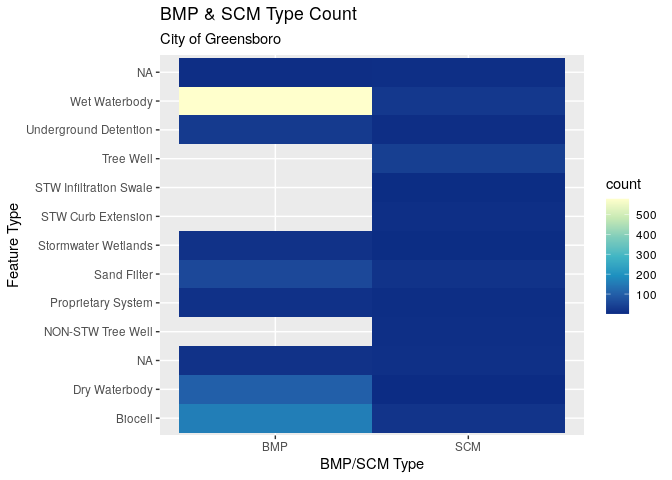
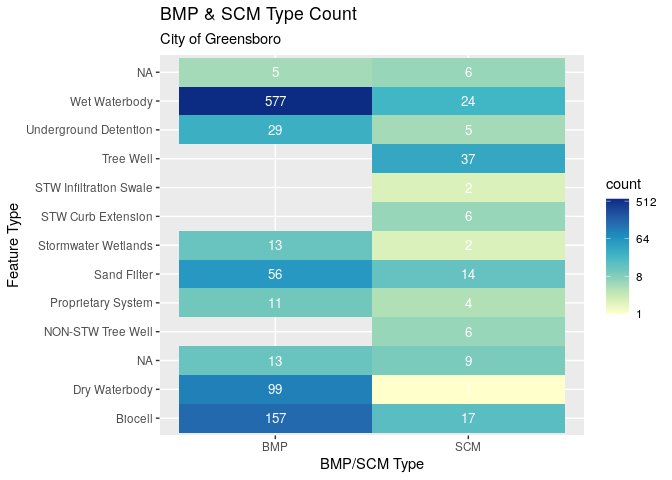
updated markdown report

diff --git a/model/features/BMPs_HUC12.md b/model/features/BMPs_HUC12.md
@@ -63,13 +63,16 @@ GROUP BY featuretyp, bmptype")
 
 ggplot(greensboro_bmp_area_df, aes(y=bmptype, x=featuretyp, fill= area)) + 
   geom_tile() +
-  scale_fill_distiller(palette = "YlGnBu") +
+  scale_fill_distiller(palette = "YlGnBu", trans='log2', direction=1) +
   labs(
        title = "BMP & SCM Type Area (km^2)",
        subtitle = "City of Greensboro",
        x = "BMP/SCM Type",
-       y = "Feature Type")
+       y = "Feature Type") +
+  geom_text(aes(label=sprintf("%0.4f", area)),color="white", face="bold", size=rel(3.5)) 
 ```
+
+    ## Warning: Ignoring unknown parameters: face
 
 ![](BMPs_HUC12_files/figure-gfm/unnamed-chunk-1-1.png)<!-- -->
 
@@ -83,13 +86,16 @@ GROUP BY featuretyp, bmptype")
 
 ggplot(greensboro_bmp_count_df, aes(y=bmptype, x=featuretyp, fill= count)) + 
   geom_tile() +
-  scale_fill_distiller(palette = "YlGnBu") +
+  scale_fill_distiller(palette = "YlGnBu", trans='log2', direction=1) +
   labs(color="Buiding Inclusion",
        title = "BMP & SCM Type Count",
        subtitle = "City of Greensboro",
        x = "BMP/SCM Type",
-       y = "Feature Type")
+       y = "Feature Type") +
+  geom_text(aes(label= count),color="white", face="bold", size=rel(3.5))
 ```
+
+    ## Warning: Ignoring unknown parameters: face
 
 ![](BMPs_HUC12_files/figure-gfm/unnamed-chunk-2-1.png)<!-- -->
 
@@ -109,8 +115,11 @@ greensboro_bmp_area_gdf %>%
 ggplot() +
     facet_grid(.~featuretyp) +
     geom_sf(aes(fill = area)) +
-    scale_fill_viridis_c(option = "plasma")
+    scale_fill_viridis_c(option = "YlGnBu",trans='log2')
 ```
+
+    ## Warning in viridisLite::viridis(n, alpha, begin, end, direction, option): Option
+    ## 'YlGnBu' does not exist. Defaulting to 'viridis'.
 
 ![](BMPs_HUC12_files/figure-gfm/unnamed-chunk-4-1.png)<!-- -->
 
@@ -120,7 +129,7 @@ greensboro_bmp_area_gdf %>%
 ggplot() +
     facet_grid(featuretyp~bmptype) +
     geom_sf(aes(fill = area)) +
-    scale_fill_viridis_c()
+    scale_fill_viridis_c(trans='log2')
 ```
 
 ![](BMPs_HUC12_files/figure-gfm/unnamed-chunk-5-1.png)<!-- -->
@@ -131,13 +140,50 @@ class(greensboro_bmp_area_gdf)
 
     ## [1] "sf"         "data.frame"
 
+## BMP Inlets
+
+``` r
+query = paste('SELECT 
+    inlet.assetid as inlet_assetid,
+    bmp.objectid,
+    bmp.installdat,
+    bmp.bmptype,
+    bmp.featuretyp,
+    bmp.outletdiam,
+    inlet.geom
+FROM sw_inlets_greensboro as inlet, sw_waterbodies_bmp_scm_greensboro as bmp
+WHERE ST_Intersects(inlet.geom, bmp.geom)')
+
+bmp_inlets_gdf <- st_read(con,query = query)
+
+query = paste('SELECT 
+    bmp.*
+FROM sw_inlets_greensboro as inlet, sw_waterbodies_bmp_scm_greensboro as bmp
+WHERE ST_Intersects(inlet.geom, bmp.geom)')
+
+bmps_gdf <- st_read(con,query = query)
+```
+
+``` r
+bmp_inlets_gdf %>%
+ggplot() +
+    geom_sf() +
+    geom_sf(data=bmps_gdf, aes(fill=bmptype))
+```
+
+![](BMPs_HUC12_files/figure-gfm/unnamed-chunk-8-1.png)<!-- -->
+
+``` r
+    #scale_fill_viridis_c(option = "plasma")
+```
+
 ## Culverts
 
 Calculate the total length of
 culverts
 
 ``` r
-huc12_culverts_df <- get_postgis_query(con, "SELECT sa.huc_12,sa.hu_12_name,sa.hu_10_name, 
+huc12_culverts_df <- st_read(con, query=paste("SELECT sa.huc_12,sa.hu_12_name,sa.hu_10_name, 
     (
         sum(COALESCE(ST_Length(gc.geom),0) + 
             COALESCE(ST_Length(cc.geom),0) +
@@ -150,11 +196,74 @@ LEFT JOIN sw_culverts_greensboro as gc ON ST_CONTAINS(sa.geom, gc.geom)
 LEFT JOIN sw_culverts_cary as cc ON ST_CONTAINS(sa.geom, cc.geom)
 LEFT JOIN sw_culverts_raleigh as rc ON ST_CONTAINS(sa.geom, rc.geom)
 
-GROUP BY sa.huc_12, sa.hu_12_name,sa.hu_10_name,  sa.geom", geom_name="geom")
+GROUP BY sa.huc_12, sa.hu_12_name,sa.hu_10_name,  sa.geom"))
 ```
 
 ``` r
-spplot(huc12_culverts_df,"total_length_m", main="Culvert Length (m)")
+#spplot(huc12_culverts_df,"total_length_m", main="Culvert Length (m)")
+
+huc12_culverts_df %>%
+ggplot() +
+    #facet_grid(.~featuretyp) +
+    geom_sf(aes(fill = total_length_m)) +
+    scale_fill_viridis_c(option = "YlGnBu",trans='log2') +
+    labs(color="Length (m)",
+       title = "Culvert Length (m)") 
 ```
 
-![](BMPs_HUC12_files/figure-gfm/unnamed-chunk-8-1.png)<!-- -->
+    ## Warning in viridisLite::viridis(n, alpha, begin, end, direction, option): Option
+    ## 'YlGnBu' does not exist. Defaulting to 'viridis'.
+
+    ## Warning: Transformation introduced infinite values in discrete y-axis
+
+![](BMPs_HUC12_files/figure-gfm/unnamed-chunk-10-1.png)<!-- -->
+
+``` r
+#Import libraries
+library(spatstat)
+```
+
+    ## Loading required package: spatstat.data
+
+    ## Loading required package: nlme
+
+    ## 
+    ## Attaching package: 'nlme'
+
+    ## The following object is masked from 'package:dplyr':
+    ## 
+    ##     collapse
+
+    ## Loading required package: rpart
+
+    ## 
+    ## spatstat 1.63-3       (nickname: 'Wet paint') 
+    ## For an introduction to spatstat, type 'beginner'
+
+    ## 
+    ## Note: spatstat version 1.63-3 is out of date by more than 9 months; we recommend upgrading to the latest version.
+
+    ## 
+    ## Attaching package: 'spatstat'
+
+    ## The following objects are masked from 'package:ggpubr':
+    ## 
+    ##     border, rotate
+
+    ## The following object is masked from 'package:MASS':
+    ## 
+    ##     area
+
+``` r
+#library(rgdal)
+
+#huc12_culverts_df <- get_postgis_query(con, 
+#geom_name = "geom")
+#Convert roads spatial lines data frame to psp object
+#psp_culvert_ms <- st_cast(huc12_culverts_df,"MULTILINESTRING")
+#psp_culvert_ls <- st_cast(psp_culvert_ms,"LINESTRING")
+#class(psp_culvert_ls)
+#psp_culvert <- as.psp(huc12_culverts_df)
+#Apply kernel density, however this is where I am unsure of the arguments
+#culvert_density <- spatstat::density.psp(psp_culvert, sigma = 0.01, eps = 500) 
+```
